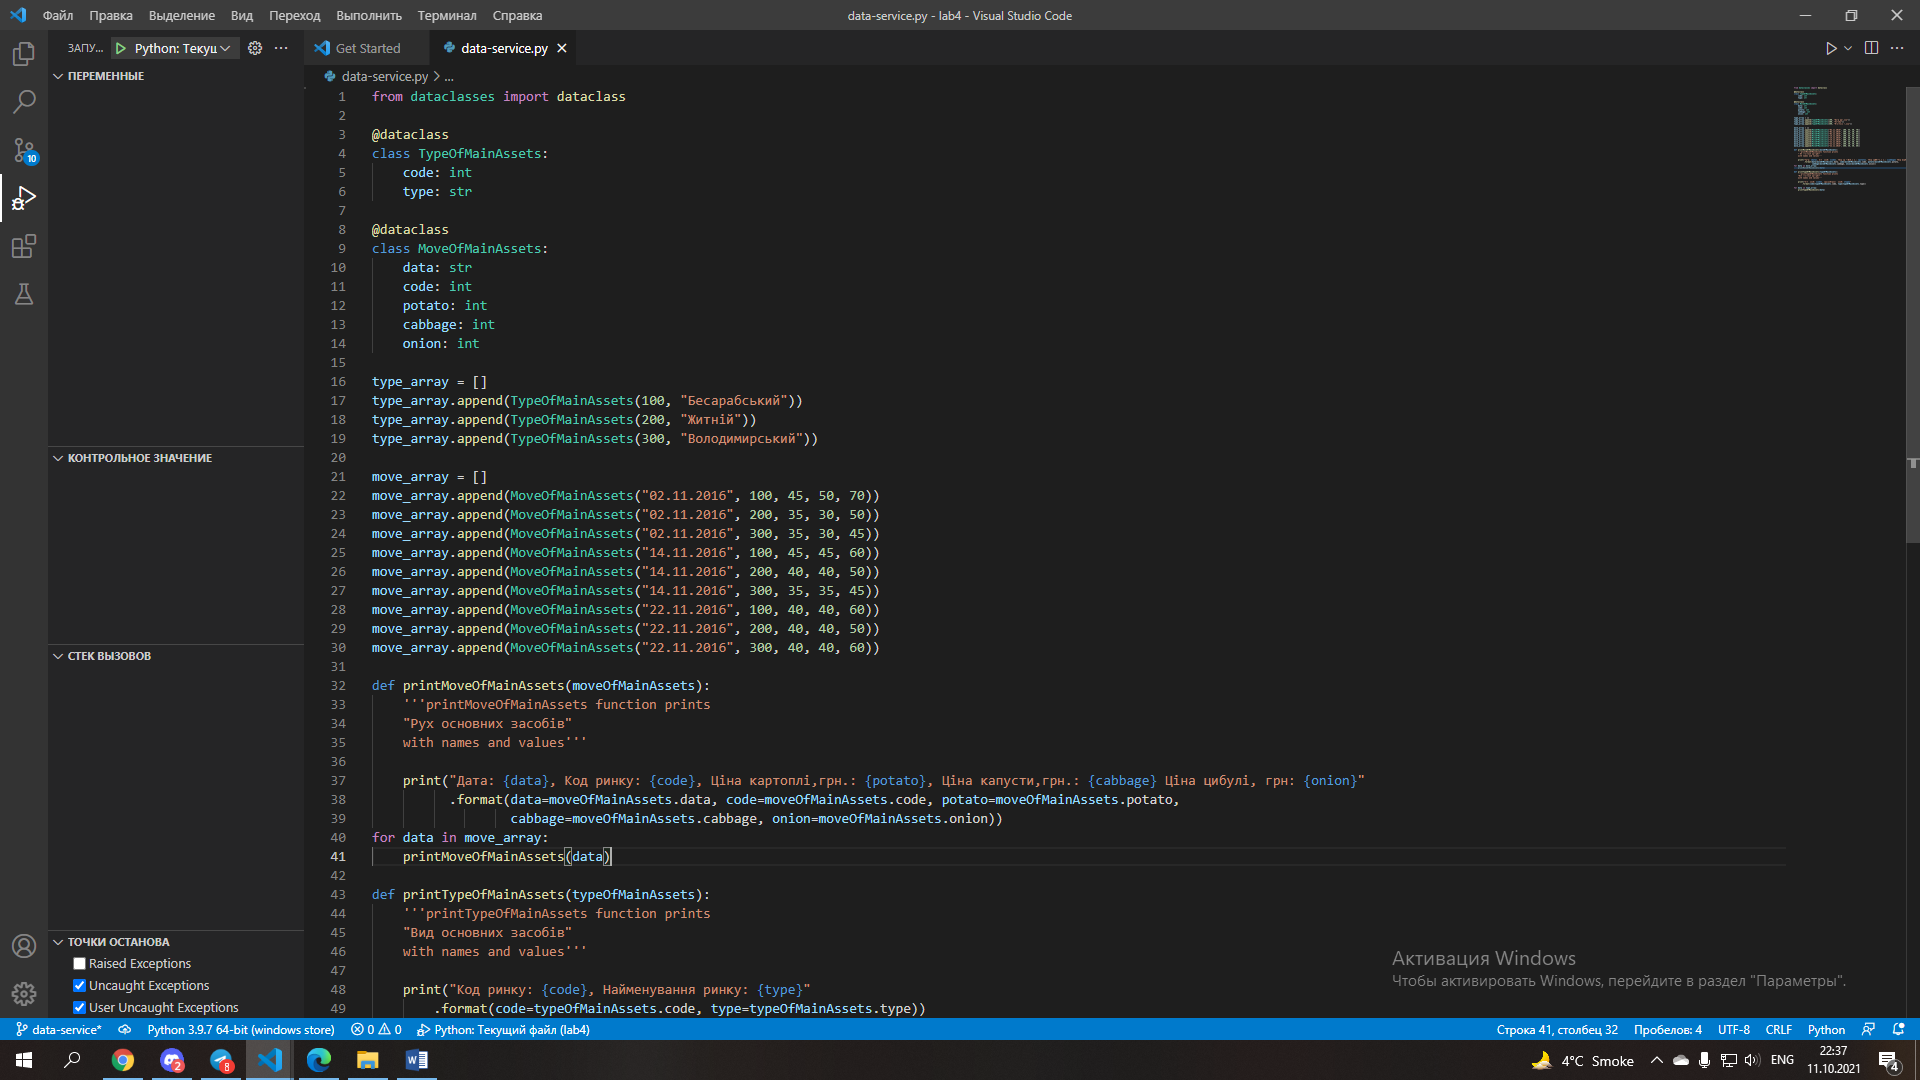
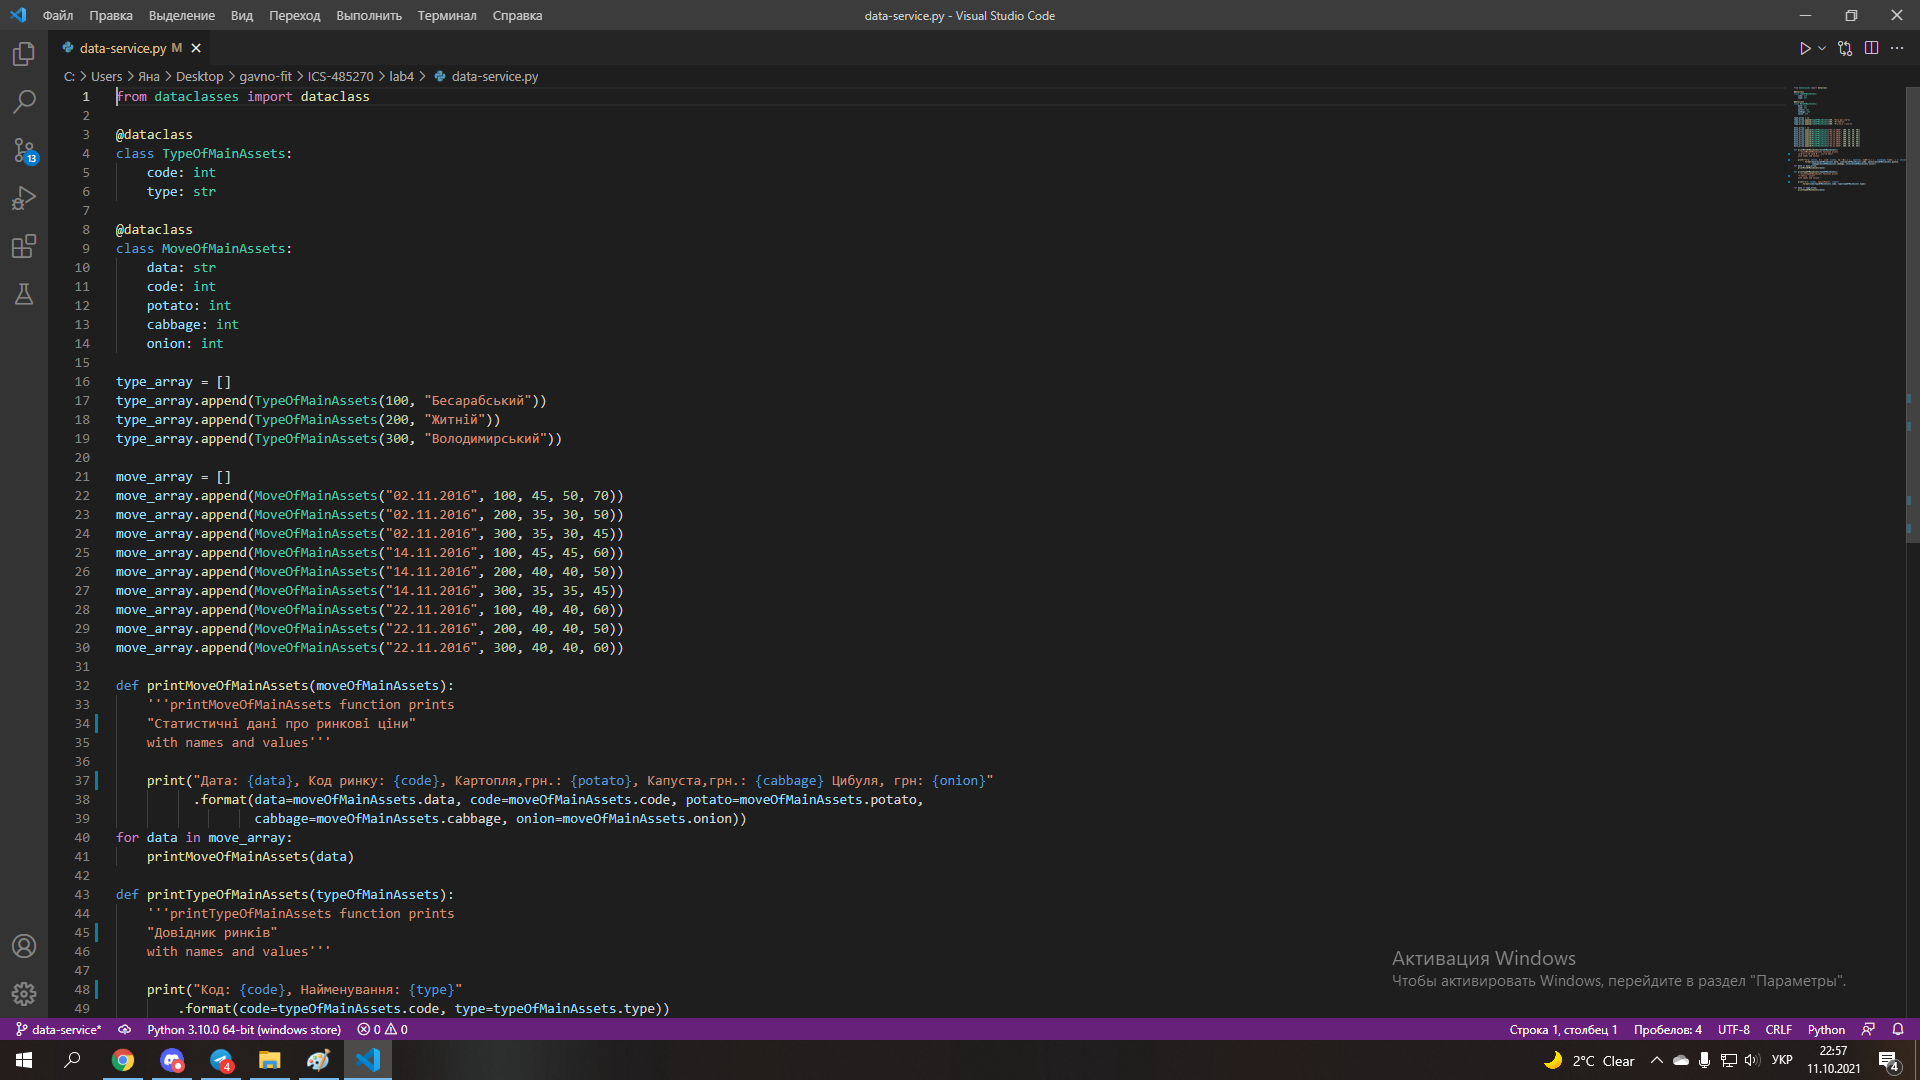
Add files via upload

diff --git a/data-service.py b/data-service.py
@@ -31,10 +31,10 @@ move_array.append(MoveOfMainAssets("22.11.2016", 300, 40, 40, 60))
 
 def printMoveOfMainAssets(moveOfMainAssets):
     '''printMoveOfMainAssets function prints
-    "Рух основних засобів"
+    "Статистичні дані про ринкові ціни"
     with names and values'''
 
-    print("Дата: {data}, Код ринку: {code}, Ціна картоплі,грн.: {potato}, Ціна капусти,грн.: {cabbage} Ціна цибулі, грн: {onion}"
+    print("Дата: {data}, Код ринку: {code}, Картопля,грн.: {potato}, Капуста,грн.: {cabbage} Цибуля, грн: {onion}"
           .format(data=moveOfMainAssets.data, code=moveOfMainAssets.code, potato=moveOfMainAssets.potato,
                   cabbage=moveOfMainAssets.cabbage, onion=moveOfMainAssets.onion)) 
 for data in move_array:
@@ -42,10 +42,10 @@ for data in move_array:
 
 def printTypeOfMainAssets(typeOfMainAssets):
     '''printTypeOfMainAssets function prints
-    "Вид основних засобів"
+    "Довідник ринків"
     with names and values'''
 
-    print("Код ринку: {code}, Найменування ринку: {type}"
+    print("Код: {code}, Найменування: {type}"
         .format(code=typeOfMainAssets.code, type=typeOfMainAssets.type))
 
 for data in type_array:
